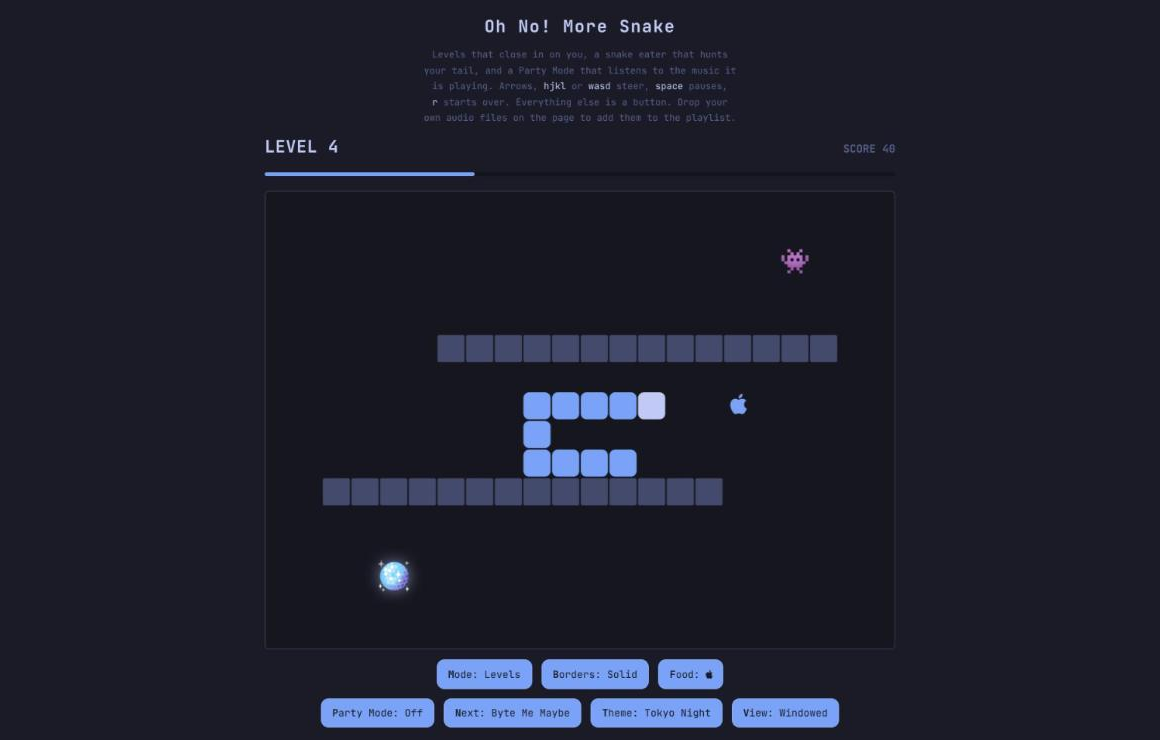
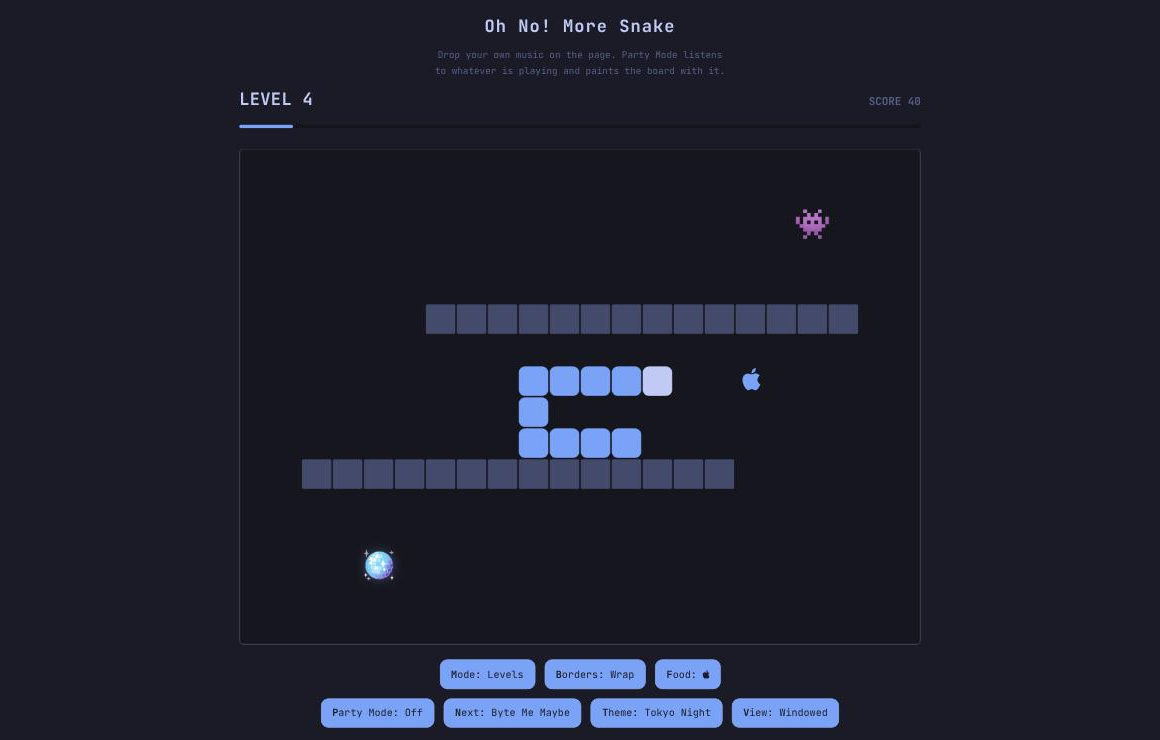
Wrap borders by default and shorten the blurb

diff --git a/test/game.test.js b/test/game.test.js
@@ -190,6 +190,7 @@ test("party events unlock gradually", () => {
 test("solid borders end the run and wrapping borders do not", () => {
   const game = fresh()
   game.endlessMode = true
+  game.wallsWrap = false // Explicit: the stored default is wrapping.
   game.reset()
   game.snake = [{ x: COLUMNS - 1, y: 5 }, { x: COLUMNS - 2, y: 5 }, { x: COLUMNS - 3, y: 5 }]
   game.direction = { x: 1, y: 0 }
@@ -261,6 +262,21 @@ test("endless mode holds one speed and levels quicken by cycle", () => {
   assert.equal(game.tickInterval, 126)
   game.endlessMode = true
   assert.equal(game.tickInterval, 140)
+})
+
+test("borders wrap until told otherwise", () => {
+  const memory = new Map()
+  const store = {
+    getItem: key => (memory.has(key) ? memory.get(key) : null),
+    setItem: (key, value) => memory.set(key, String(value))
+  }
+  const first = new Game({ store })
+  assert.ok(first.wallsWrap, "a first run wraps")
+
+  first.toggleWallsWrap()
+  assert.ok(!first.wallsWrap)
+  // A stored "false" is a decision, and outlives the default.
+  assert.ok(!new Game({ store }).wallsWrap, "solid borders survive a reload")
 })
 
 test("best scores are kept apart per mode and survive a reload", () => {

diff --git a/public/index.html b/public/index.html
@@ -84,11 +84,6 @@
 			text-wrap: balance;
 		}
 
-		.sub kbd {
-			font: inherit;
-			color: var(--fg);
-		}
-
 		/* Everything inside #stage is the game; everything outside it is the
 		   page around the game. That is the whole of the fullscreen feature —
 		   the browser renders only the fullscreen element's subtree, so the
@@ -344,11 +339,8 @@
 	<h1>Oh No! More Snake</h1>
 
 	<p class="sub">
-		Levels that close in on you, a snake eater that hunts your tail, and a
-		Party Mode that listens to the music it is playing. Arrows,
-		<kbd>hjkl</kbd> or <kbd>wasd</kbd> steer, <kbd>space</kbd> pauses,
-		<kbd>r</kbd> starts over. Everything else is a button. Drop your own
-		audio files on the page to add them to the playlist.
+		Drop your own music on the page. Party Mode listens to whatever is playing
+		and paints the board with it.
 	</p>
 
 	<main id="stage">

diff --git a/public/snake/Game.js b/public/snake/Game.js
@@ -839,7 +839,11 @@ export class Game {
     this.bestEndless = number("omasnake/scores/endless", 0)
     this.totalSeconds = number("omasnake/play/totalSeconds", 0)
     this.foodStyleIndex = number("omasnake/appearance/foodStyle", 0)
-    this.wallsWrap = this.store.getItem("omasnake/play/wrapBorders") === "true"
+    // Wrapping is the friendlier first run, and unlike the desktop version
+    // this one is usually somebody's first. A stored "false" is still a
+    // decision, so only the absence of one becomes a wrap.
+    const wrap = this.store.getItem("omasnake/play/wrapBorders")
+    this.wallsWrap = wrap === null ? true : wrap === "true"
   }
 
   saveSettings() {

diff --git a/README.md b/README.md
@@ -28,7 +28,7 @@ to be served — opening `public/index.html` from the filesystem will not work.
 - `p` — toggle Party Mode
 - `n` — switch to the next soundtrack
 - `m` — switch between Levels and Endless
-- `b` — switch between solid and wrapping borders
+- `b` — switch between wrapping and solid borders
 - `f` — cycle the food skin
 - `r` — start a fresh run
 - `t` — cycle the theme
@@ -52,6 +52,8 @@ of 55 ms. From level 4, a snake eater hunts the tail: each bite removes one
 block and one point, and steering the head into it earns two points and drives
 it away for a while. Endless is the classic open board at one speed.
 
+Borders wrap until you press `b`, which is the one rule here that differs from
+the desktop version — a page somebody just opened is usually their first game.
 Moving into the cell your own tail is leaving is legal, because the tail leaves
 it during the same tick. In Party Mode that is worth a point.
 

diff --git a/AGENTS.md b/AGENTS.md
@@ -102,6 +102,10 @@ Each of these is a deliberate answer to something a browser cannot do. Do not
   were tuned per buffer.
 - **The rhythm timer is gone.** `MusicController::beat` had no listener in the
   QML, so it was not ported.
+- **Borders wrap by default.** The desktop version starts solid. A page is
+  usually somebody's first game, and a first game that ends in three seconds
+  against a wall is a worse introduction than one that does not. A stored
+  `false` is still a decision and outlives the default; only its absence wraps.
 - **Escape leaves fullscreen, or pauses.** There is no window to close. Real
   fullscreen is the browser's to exit; the CSS stand-in has to be told.
 - **Fullscreen is `v`, labelled "View".** Bolding the first letter of
